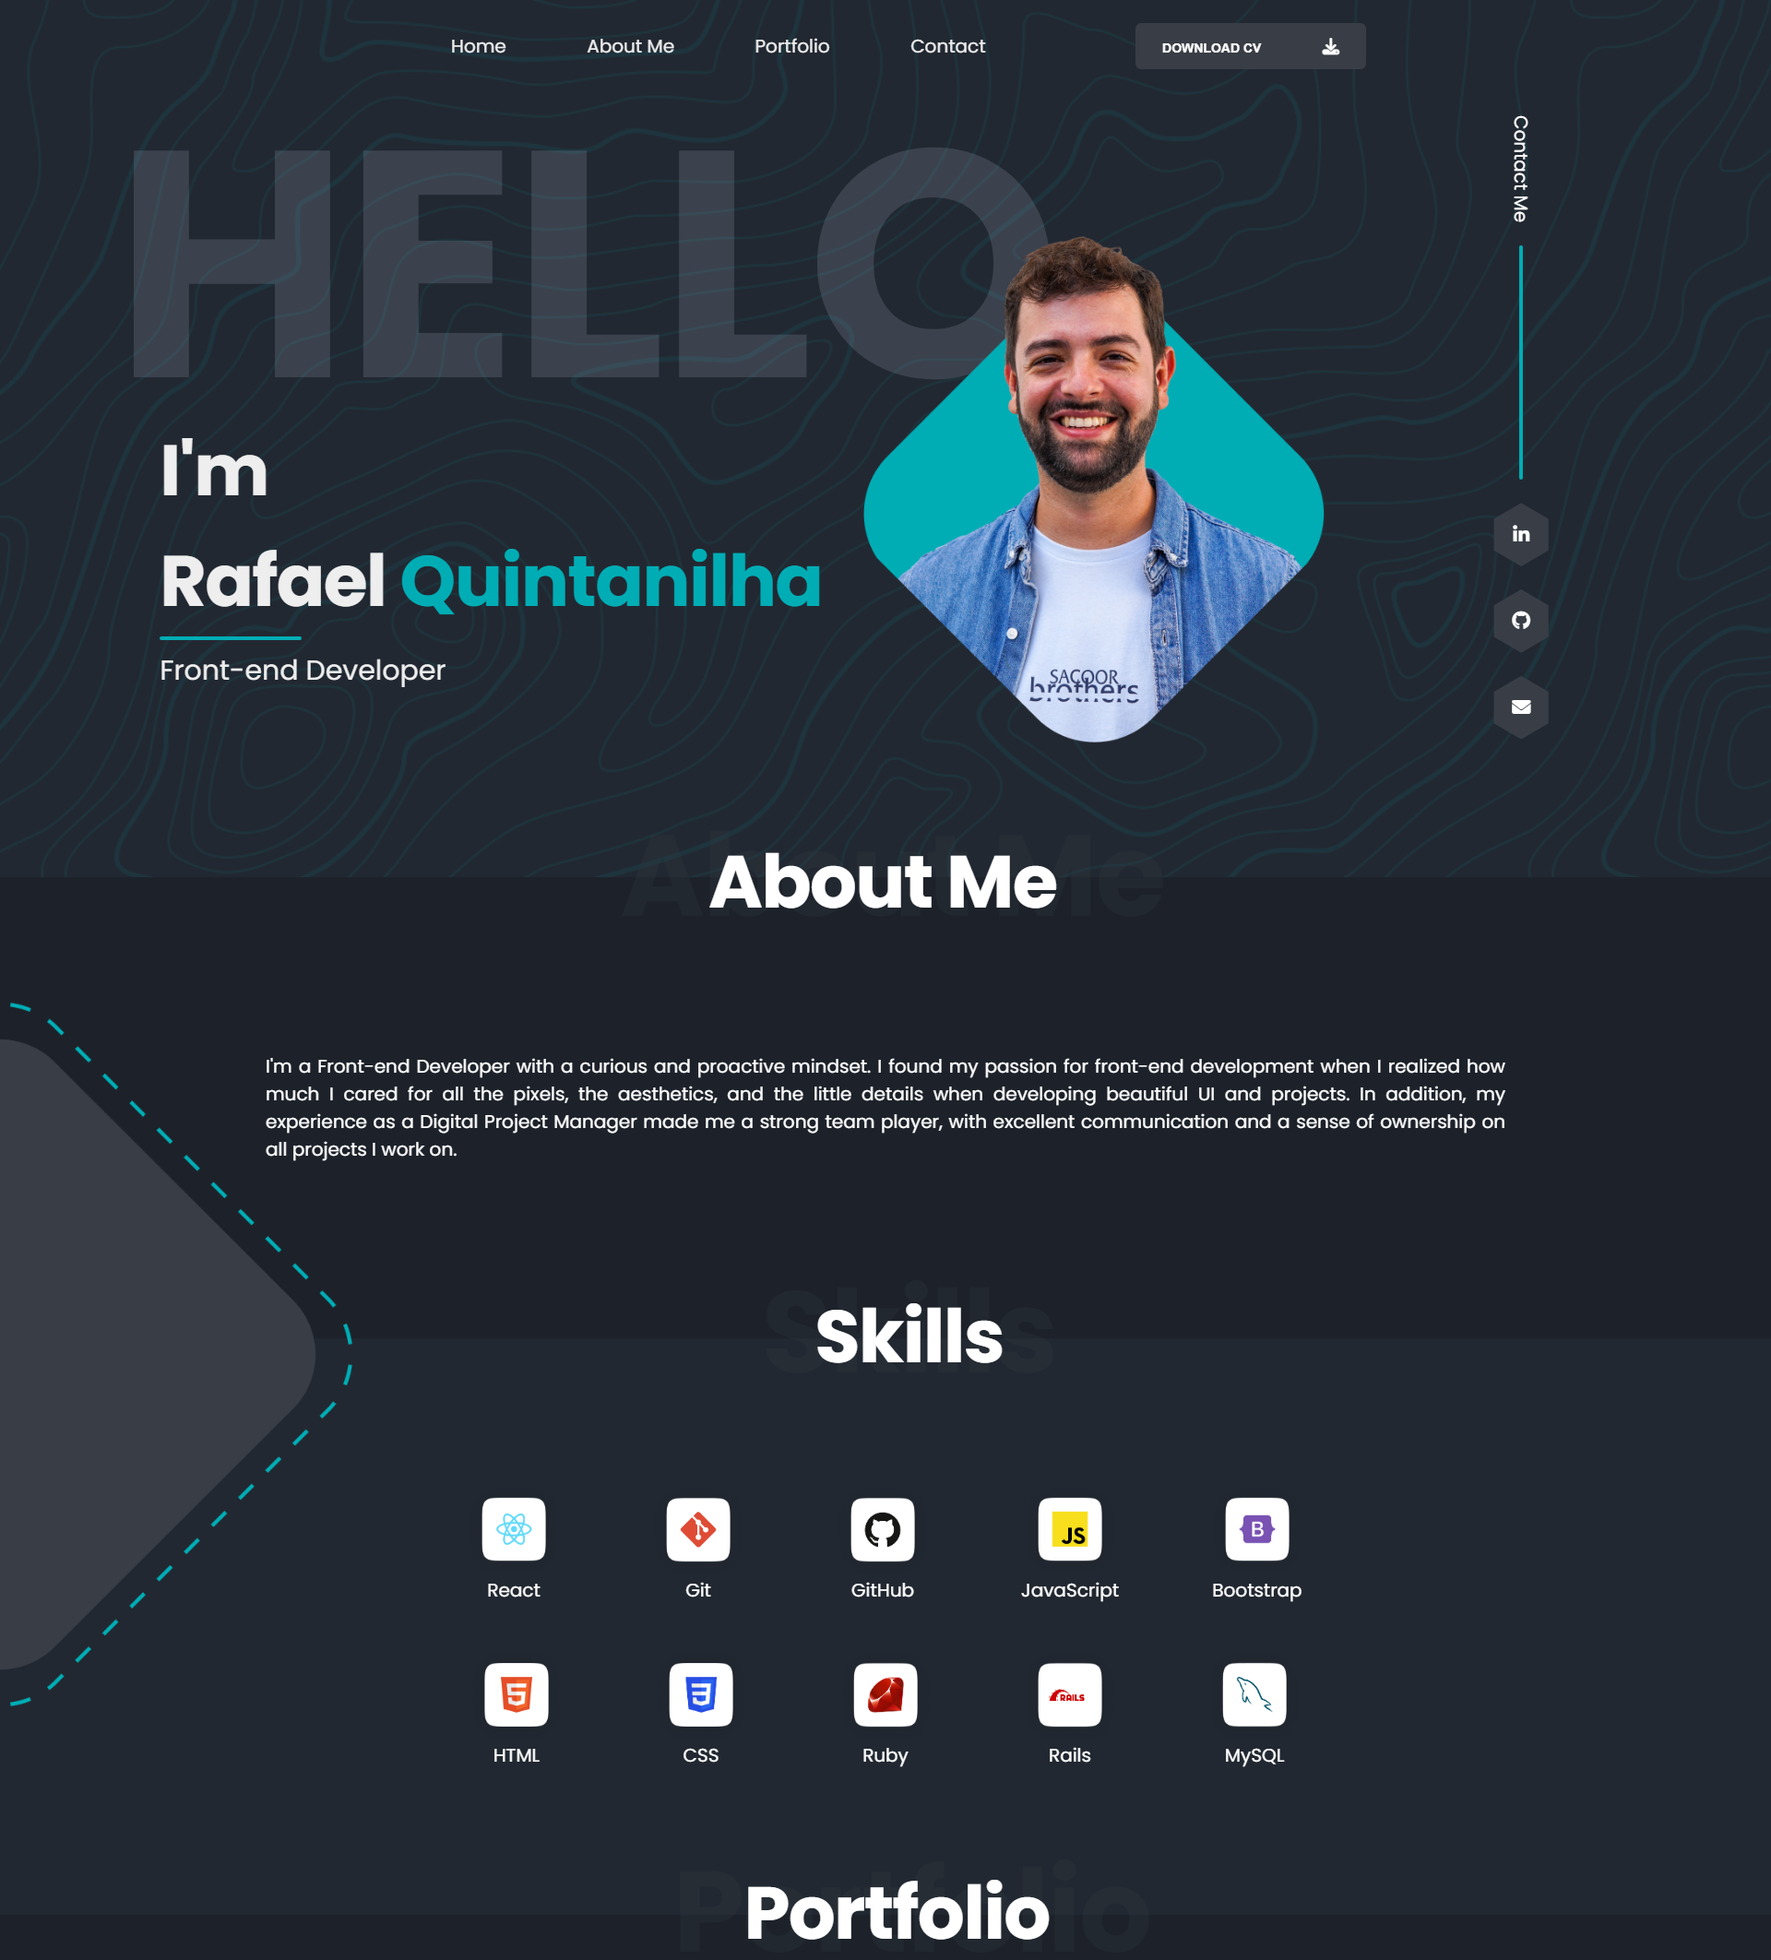
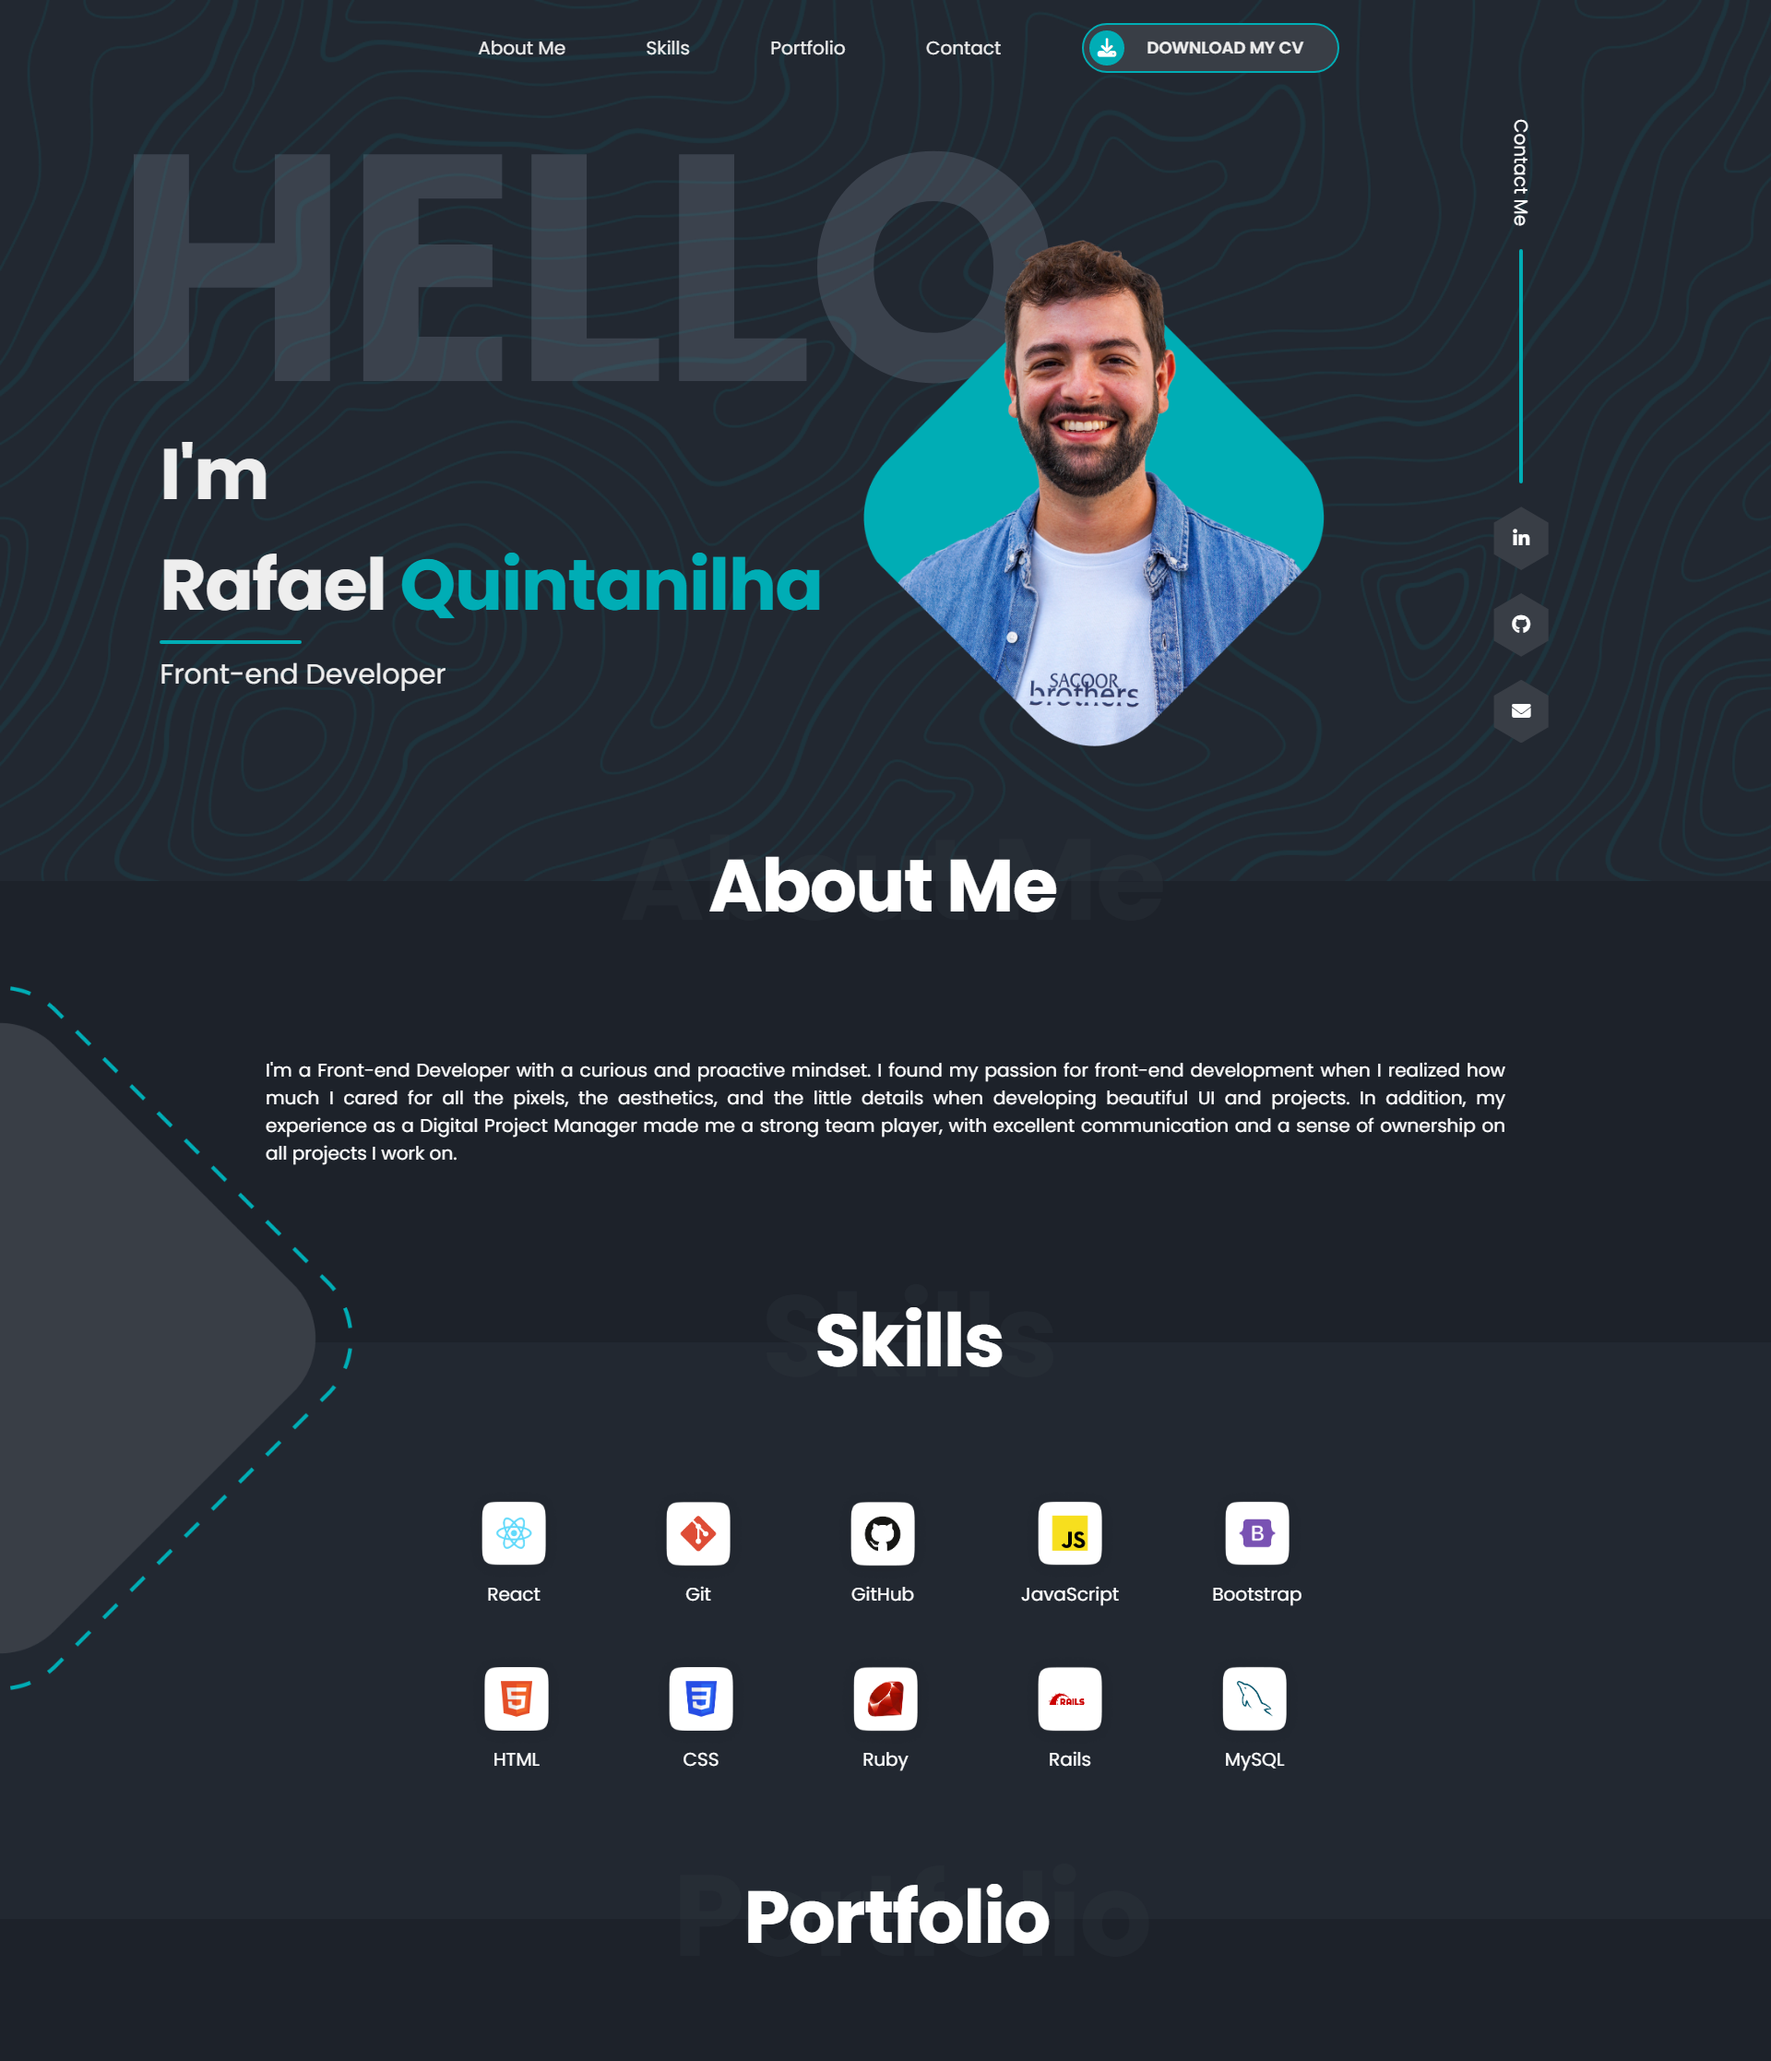
css animations completed

diff --git a/components/projects.jsx b/components/projects.jsx
@@ -4,11 +4,24 @@ export default [
     title: "My Portfolio",
     description: (
       <>
-        My portfolio website where I can share my projects, my GitHub repositories and a little bit about me. Built with React JS, HTML, CSS. Tools: ViteJS and Figma.
+        My portfolio website where I can share my projects, my GitHub repositories and a little bit about me. Used Figma for design and built it with React JS and lot of CSS. :)
       </>
     ),
     liveLink: "",
-    codeLink: "https://github.com/RafaelQuintanilha18/javascript-personalDashboard-app",
+    codeLink: "https://github.com/RafaelQuintanilha18/portfolio",
+  },
+  {
+    imageSrc: "src/assets/projects/memeGen.jpg",
+    title: "Meme Generator",
+    description: (
+      <>
+        A React app that can quickly generate memes for you. It's integrated with the Imgflip API, which provides us with the most popular meme images at the moment.
+        <br /><br />
+        Built with React JS and APIs.
+      </>
+    ),
+    liveLink: "https://react-memegenerator-rq.netlify.app/",
+    codeLink: "https://github.com/RafaelQuintanilha18/react-MemeGenerator",
   },
   {
     imageSrc: "src/assets/projects/PersonalDashboardApp.jpg",
@@ -24,56 +37,39 @@ export default [
     codeLink: "https://github.com/RafaelQuintanilha18/javascript-personalDashboard-app",
   },
   {
-    imageSrc: "src/assets/projects/PersonalDashboardApp.jpg",
-    title: "Personal Dashboard",
+    imageSrc: "src/assets/projects/thecolorpickerapp.png",
+    title: "The Colro Picker App",
     description: (
       <>
-        A Chrome Extension that gives you an overview over the current time, how the weather is like and how BitCoin is performing. Interacts with multiple APIs using async JS.
+        The ColorPicker app is an awesome tool to help you find the best color scheme for your app. Integrated with The Color API, you have more than 2000 colors and 8 different color schemes to choose from.
         <br /><br />
         Built with HTML, CSS, APIs and vanilla JavaScript.
       </>
     ),
-    liveLink: "https://personal-dashboard-rq.netlify.app/",
-    codeLink: "https://github.com/RafaelQuintanilha18/javascript-personalDashboard-app",
+    liveLink: "https://thecolorpickerapp-rq.netlify.app/",
+    codeLink: "https://github.com/RafaelQuintanilha18/javascript-color-scheme-app",
   },
   {
-    imageSrc: "src/assets/PersonalDashboardApp.jpg",
-    title: "Personal Dashboard",
+    imageSrc: "src/assets/projects/placeholder.png",
+    title: "",
     description: (
       <>
-        A Chrome Extension that gives you an overview over the current time, how the weather is like and how BitCoin is performing. Interacts with multiple APIs using async JS.
-        <br /><br />
-        Built with HTML, CSS, APIs and vanilla JavaScript.
+
       </>
     ),
-    liveLink: "https://personal-dashboard-rq.netlify.app/",
-    codeLink: "https://github.com/RafaelQuintanilha18/javascript-personalDashboard-app",
+    liveLink:"",
+    codeLink:"",
   },
   {
-    imageSrc: "src/assets/PersonalDashboardApp.jpg",
-    title: "Personal Dashboard",
+    imageSrc: "src/assets/projects/placeholder.png",
+    title: "",
     description: (
       <>
-        A Chrome Extension that gives you an overview over the current time, how the weather is like and how BitCoin is performing. Interacts with multiple APIs using async JS.
-        <br /><br />
-        Built with HTML, CSS, APIs and vanilla JavaScript.
+
       </>
     ),
-    liveLink: "https://personal-dashboard-rq.netlify.app/",
-    codeLink: "https://github.com/RafaelQuintanilha18/javascript-personalDashboard-app",
-  },
-  {
-    imageSrc: "src/assets/PersonalDashboardApp.jpg",
-    title: "Personal Dashboard",
-    description: (
-      <>
-        A Chrome Extension that gives you an overview over the current time, how the weather is like and how BitCoin is performing. Interacts with multiple APIs using async JS.
-        <br /><br />
-        Built with HTML, CSS, APIs and vanilla JavaScript.
-      </>
-    ),
-    liveLink: "https://personal-dashboard-rq.netlify.app/",
-    codeLink: "https://github.com/RafaelQuintanilha18/javascript-personalDashboard-app",
+    liveLink: "",
+    codeLink: "",
   },
 
 ]

diff --git a/src/App.css b/src/App.css
@@ -12,7 +12,7 @@
 #triangle {
   position: absolute;
   width: 330px;
-  top: 845px;
+  top: 830px;
   left: 0%;
   z-index: 1;
 }
@@ -22,6 +22,7 @@
   margin-bottom: 120px;
 }
 
+/* ------ /// ABOUT ME /// ------ */
 .aboutme {
   background-color: #1D222A;
   display: flex;
@@ -41,7 +42,8 @@
   margin: 0;
   position: absolute;
   left: 35%;
-  top: -19%
+  top: -19%;
+  z-index: 3;
 }
 
 .aboutme--title h2 {
@@ -52,16 +54,18 @@
   margin: 0;
   position: absolute;
   left: 40%;
-  top: -11%
+  top: -11%;
+  z-index: 3;
 }
 
 .aboutme p {
   text-align: justify;
   margin: 0;
   padding: 15%;
-  z-index: 1;
+  z-index: 2;
 }
 
+/* ------ /// SKILLS /// ------ */
 .skills {
   background-color: #222831;
   display: flex;
@@ -83,6 +87,7 @@
   position: absolute;
   left: 43%;
   top: -80px;
+  z-index: 3;
 }
 
 .skills--title h2 {
@@ -94,6 +99,7 @@
   position: absolute;
   left: 46%;
   top: -50px;
+  z-index: 3;
 }
 
 .skills--badges {
@@ -117,14 +123,13 @@
   transform: scale(1.5,1.5);
 }
 
-/* ------ PORTFOLIO CSS HERE ------ */
+/* ------ /// PORTFOLIO /// ------ */
 .portfolio {
   background-color: #1D222A;
   display: flex;
   flex-direction: column;
   align-items: center;
   position: relative;
-  /* height: 450px; */
   justify-content: center;
 }
 
@@ -186,7 +191,7 @@
   width: 100%;
   opacity: 0;
   transition: .5s ease;
-  background-color: #00ADB5;
+  background-color: #408c99;
   border-radius: 24px;
 }
 
@@ -228,7 +233,7 @@
 	background-color:#408c99;
 }
 
-/* ------ FOOTER CSS HERE ------ */
+/* ------ /// FOOTER /// ------ */
 .footer {
   background-color: #00ADB5;
   display: flex;
@@ -271,7 +276,7 @@
   right: 30px;
   z-index: 99;
   border: none;
-  outline: none; /* Remove outline */
+  outline: none;
   background-color: #00ADB5;
   border: 1px solid #111212;
   color: white;

diff --git a/components/Navbar.css b/components/Navbar.css
@@ -10,6 +10,11 @@
 
 .navbar li {
   list-style: none;
+  z-index: 99;
+}
+
+.navbar li:hover {
+  color: #00ADB5;
 }
 
 #btn--download {
@@ -22,9 +27,72 @@
   height: 40px;
   border: none;
   margin-left: 60px;
+  cursor: pointer;
 }
 
-.fa-download {
+.btn--slide {
+  position: relative;
+  display: inline-block;
+  height: 40px;
+  width: 220px;
+  line-height: 40px;
+  padding: 0;
+  border-radius: 50px;
+  background: #393E46;
+  border: 2px solid #00ADB5;
+  transition: .5s;
   margin-left: 50px;
+}
+
+.btn--slide:hover{
+  background-color: #00ADB5;
+}
+
+.btn--slide:hover span.circle {
+  left: 100%;
+  margin-left: -35px;
+  background-color: #fff;
+  color: #00ADB5;
+}
+
+.btn--slide:hover span.title {
+  left: 40px;
+  opacity: 0;
+}
+
+.btn--slide:hover span.title-hover {
+  opacity: 1;
+  left: 60px;
+  color: #fff;
+}
+
+.btn--slide span.circle {
+  display: block;
+  background-color: #00ADB5;
+  color: #fff;
+  position: absolute;
+  float: left;
+  margin: 5px;
+  line-height: 31px;
+  height: 30px;
+  width: 30px;
+  top: 0;
+  left: 0;
+  transition: .5s;
+  border-radius: 50%;
+}
+
+.btn--slide span.title, .btn--slide span.title-hover {
+  position: absolute;
+  left: 55px;
+  text-align: center;
+  margin: 0 auto;
   font-size: 0.9rem;
+  font-weight: 600;
+  transition: .5s;
+}
+
+.btn--slide span.title-hover {
+  left: 80px;
+  opacity: 0;
 }

diff --git a/components/Navbar.jsx b/components/Navbar.jsx
@@ -5,12 +5,15 @@ export default function Navbar() {
   return (
     <div>
       <ul className="navbar">
-        <li>Home</li>
-        <li>About Me</li>
-        <li>Portfolio</li>
-        <li>Contact</li>
-      <button id="btn--download">DOWNLOAD CV <i class="fa-solid fa-download"></i>
-        </button>
+        <a href="#aboutmeSection"><li>About Me</li></a>
+        <a href="#skillsSection"><li>Skills</li></a>
+        <a href="#portfolioSection"><li>Portfolio</li></a>
+        <a href="#contactSection"><li>Contact</li></a>
+      <a href="https://drive.google.com/file/d/1i_gyCMmuuRimosrzEDSB5zfg920J832-/view?usp=share_link" target="_blank" className="btn--slide">
+        <span className="circle"><i class="fa fa-download"></i></span>
+        <span className="title">DOWNLOAD MY CV</span>
+        <span className="title-hover">CLICK HERE!</span>
+      </a>
       </ul>
 
     </div>

diff --git a/components/Footer.jsx b/components/Footer.jsx
@@ -27,7 +27,7 @@ export default function Footer() {
   return (
     <div className='footer'>
       <div className="footer--text">
-        <h1>Contact Me</h1>
+        <h1 id='contactSection'>Contact Me</h1>
         <p>Feel free to email<br /> or reach out on LinkedIn or GitHub</p>
         <div className="footer--icons">
           <a href="https://www.linkedin.com/in/rafael-quintanilha/" target="_blank"><div className="polygon"><i class="fa-brands fa-linkedin-in"></i></div></a>

diff --git a/components/AboutMe.jsx b/components/AboutMe.jsx
@@ -6,7 +6,7 @@ export default function aboutMe() {
     <div className='aboutme'>
       <div className="aboutme--title">
         <h1>About Me</h1>
-        <h2>About Me</h2>
+        <h2 id='aboutmeSection'>About Me</h2>
       </div>
         <p>I'm a Front-end Developer with a curious and proactive mindset. I found my passion
             for front-end development when I realized how much I cared for all the pixels, the

diff --git a/src/App.jsx b/src/App.jsx
@@ -21,8 +21,8 @@ export default function App() {
           <HeroContact />
         </div>
         <AboutMe />
-        <img src="src/assets/triangle.png" alt="" id='triangle' />
       </div>
+        <img src="src/assets/triangle.png" alt="" id='triangle' />
       <Skills />
       <Portfolio />
       <Footer />

diff --git a/components/Skills.jsx b/components/Skills.jsx
@@ -5,7 +5,7 @@ export default function skills() {
     <div className='skills'>
       <div className="skills--title">
         <h1>Skills</h1>
-        <h2>Skills</h2>
+        <h2 id='skillsSection'>Skills</h2>
       </div>
       <div className='skills--badges'>
         <div className='badges'>

diff --git a/components/Portfolio.jsx b/components/Portfolio.jsx
@@ -9,7 +9,7 @@ export default function Portfolio() {
     <div className='portfolio'>
       <div className="portfolio--title">
         <h1>Portfolio</h1>
-        <h2>Portfolio</h2>
+        <h2 id='portfolioSection'>Portfolio</h2>
       </div>
 
       <div className="portfolio--container">

diff --git a/components/HeroContent.css b/components/HeroContent.css
@@ -7,6 +7,7 @@
   letter-spacing: -0.02em;
   mix-blend-mode: screen;
   opacity: 0.5;
+  z-index: -1;
 
 }
 
